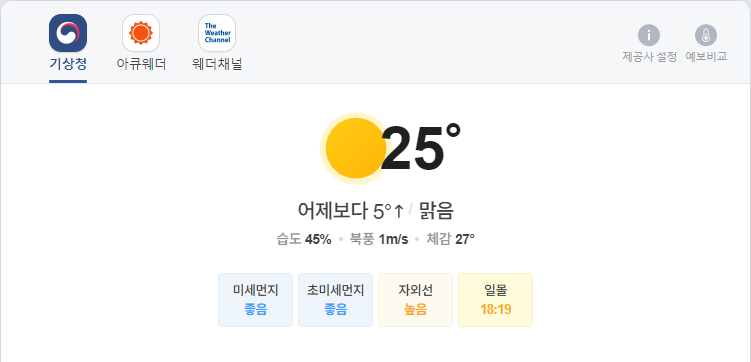
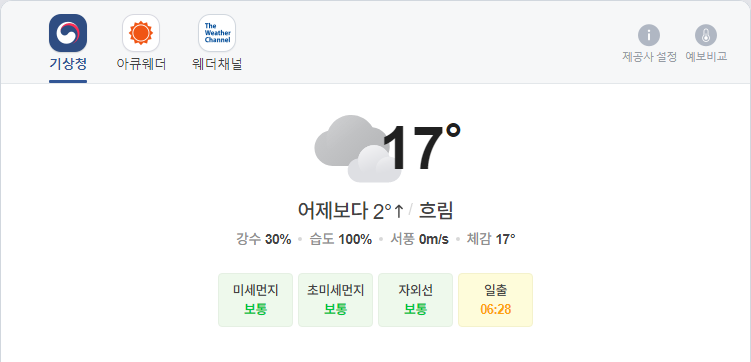
update result

diff --git a/README.md b/README.md
@@ -1,5 +1,5 @@
-##  2021-09-30 16:02:49   목요일 
-##### 날씨   -   어제보다 5° 높아요맑음  
+##  2021-10-01 05:54:52   금요일 
+##### 날씨   -   어제보다 2° 높아요흐림  
 <center><img src="../img/naver_weather_week.png"></center>
 ----
 ----
@@ -13,17 +13,17 @@
 ##### 세계
 <table border="1" bordercolor="blue" align = "center" >
 <tr align = "right" > <td>Item</td><td>Point</td><td>Diff</td><td>Rate</td><td>Buy</td><td>Sell</td><td>...</td>  </tr>
-<tr align = "right" > <td>DOW</td><td>34,390.72</td><td>90.73</td><td><font size="3" color="red" >0.26%</font></td><td><font size="3" color="black">0</font></td><td><font size="3" color="black">0</font></td><td>0</td>  </tr>
-<tr align = "right" > <td>NASDAQ</td><td>14,512.44</td><td>-34.24</td><td><font size="3" color="blue" >-0.24%</font></td><td><font size="3" color="black">0</font></td><td><font size="3" color="black">0</font></td><td>0</td>  </tr>
-<tr align = "right" > <td>S&P</td><td>4,359.46</td><td>6.83</td><td><font size="3" color="red" >0.16%</font></td><td><font size="3" color="black">0</font></td><td><font size="3" color="black">0</font></td><td>0</td>  </tr>
-<tr align = "right" > <td>SHANHAI</td><td>3,567.54</td><td>31.24</td><td><font size="3" color="red" >0.88%</font></td><td><font size="3" color="black">0</font></td><td><font size="3" color="black">0</font></td><td>0</td>  </tr>
-<tr align = "right" > <td>INDIA</td><td>59,478.15</td><td>64.88</td><td><font size="3" color="red" >0.11%</font></td><td><font size="3" color="black">0</font></td><td><font size="3" color="black">0</font></td><td>0</td>  </tr>
+<tr align = "right" > <td>DOW</td><td>33,843.92</td><td>-546.8</td><td><font size="3" color="blue" >-1.59%</font></td><td><font size="3" color="black">0</font></td><td><font size="3" color="black">0</font></td><td>0</td>  </tr>
+<tr align = "right" > <td>NASDAQ</td><td>14,448.58</td><td>-63.86</td><td><font size="3" color="blue" >-0.44%</font></td><td><font size="3" color="black">0</font></td><td><font size="3" color="black">0</font></td><td>0</td>  </tr>
+<tr align = "right" > <td>S&P</td><td>4,307.54</td><td>-51.92</td><td><font size="3" color="blue" >-1.19%</font></td><td><font size="3" color="black">0</font></td><td><font size="3" color="black">0</font></td><td>0</td>  </tr>
+<tr align = "right" > <td>SHANHAI</td><td>3,568.17</td><td>31.87</td><td><font size="3" color="red" >0.9%</font></td><td><font size="3" color="black">0</font></td><td><font size="3" color="black">0</font></td><td>0</td>  </tr>
+<tr align = "right" > <td>INDIA</td><td>59,126.36</td><td>-286.91</td><td><font size="3" color="blue" >-0.48%</font></td><td><font size="3" color="black">0</font></td><td><font size="3" color="black">0</font></td><td>0</td>  </tr>
 </table>
 ----
 ##### 시장
 <table border="1" bordercolor="blue" align = "center" >
 <tr align = "right" > <td>Item</td><td>Price</td><td>Diff</td><td>Rate</td><td>Buy</td><td>Sell</td><td>...</td>  </tr>
-<tr align = "right" > <td>USD</td><td>1,184.0</td><td>-1.0</td><td><font size="3" color="blue">-0.08%</font></td><td><font size="3" color="black">1,110</font></td><td><font size="3" color="black">0</font></td><td>0</td>  </tr>
+<tr align = "right" > <td>USD</td><td>1,186.0</td><td>1.0</td><td><font size="3" color="red">0.08%</font></td><td><font size="3" color="black">1,110</font></td><td><font size="3" color="black">0</font></td><td>0</td>  </tr>
 <tr align = "right" > <td>WTI</td><td>74.83</td><td>-0.46</td><td><font size="3" color="blue">-0.61%</font></td><td><font size="3" color="black">29.0</font></td><td><font size="3" color="black">0</font></td><td>0</td>  </tr>
 <tr align = "right" > <td>GOLD</td><td>1,721.0</td><td>-14.4</td><td><font size="3" color="blue">-0.82%</font></td><td><font size="3" color="black">0</font></td><td><font size="3" color="black">0</font></td><td>0</td>  </tr>
 </table>
